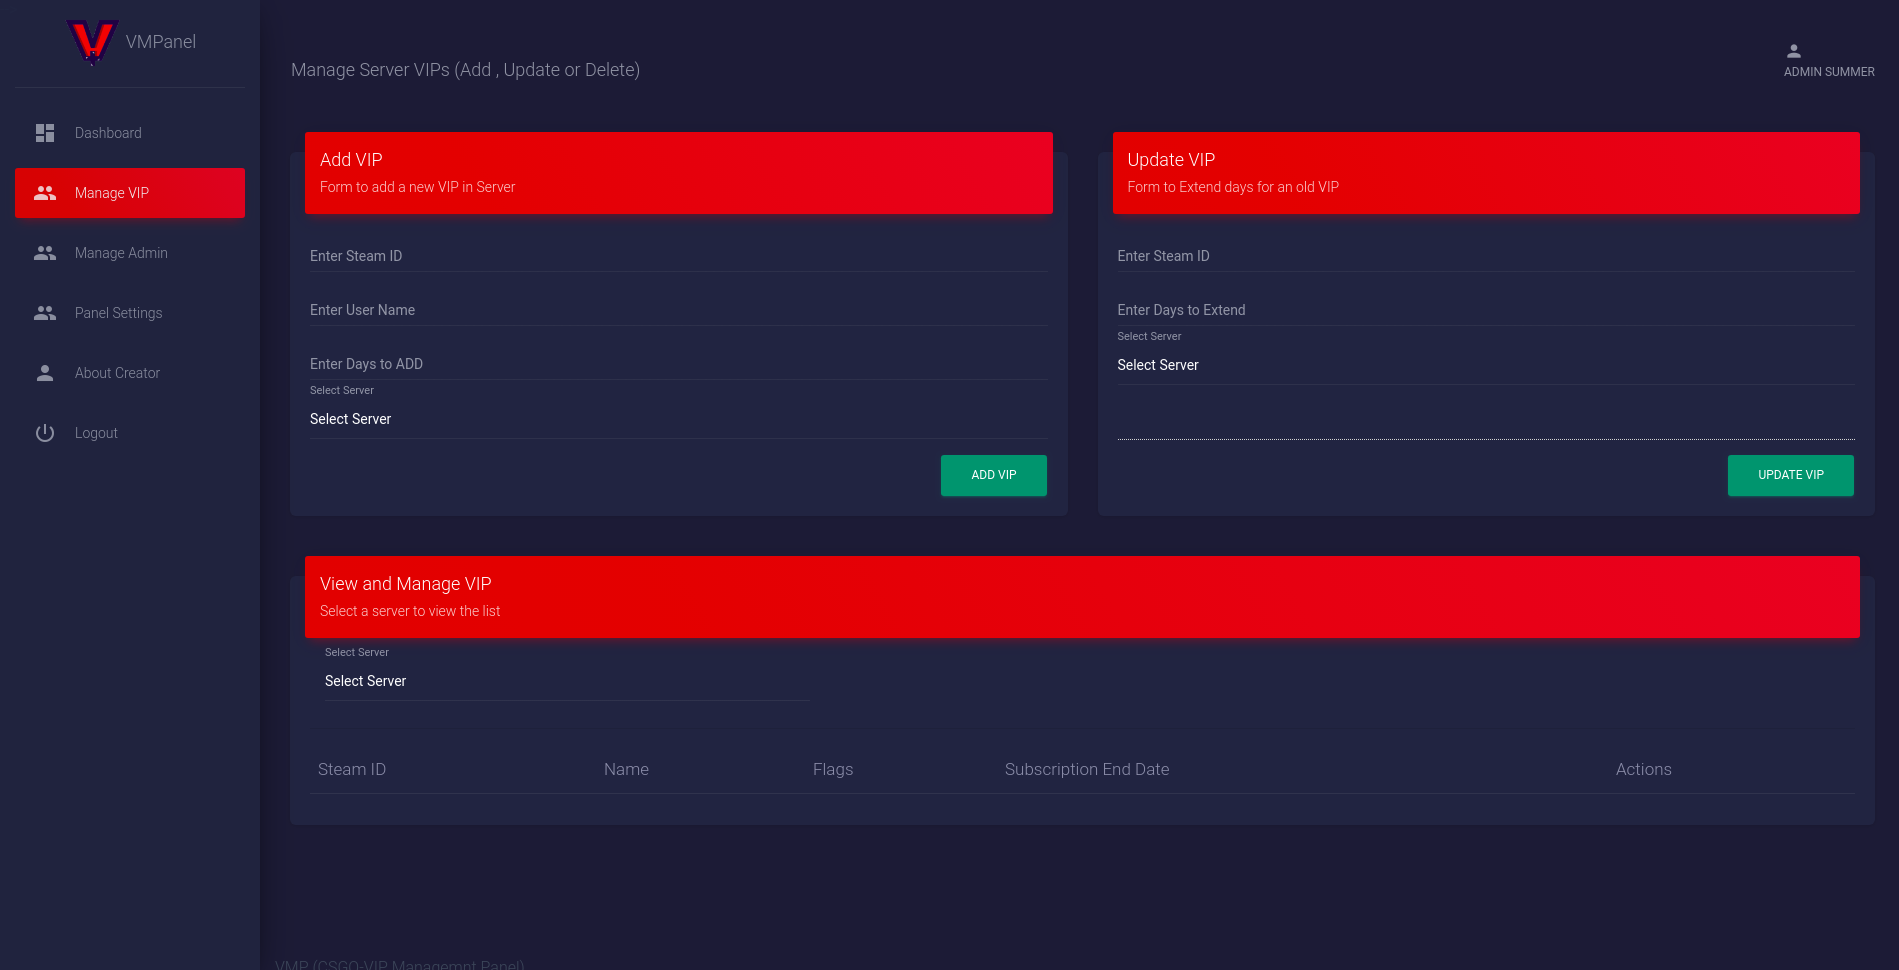
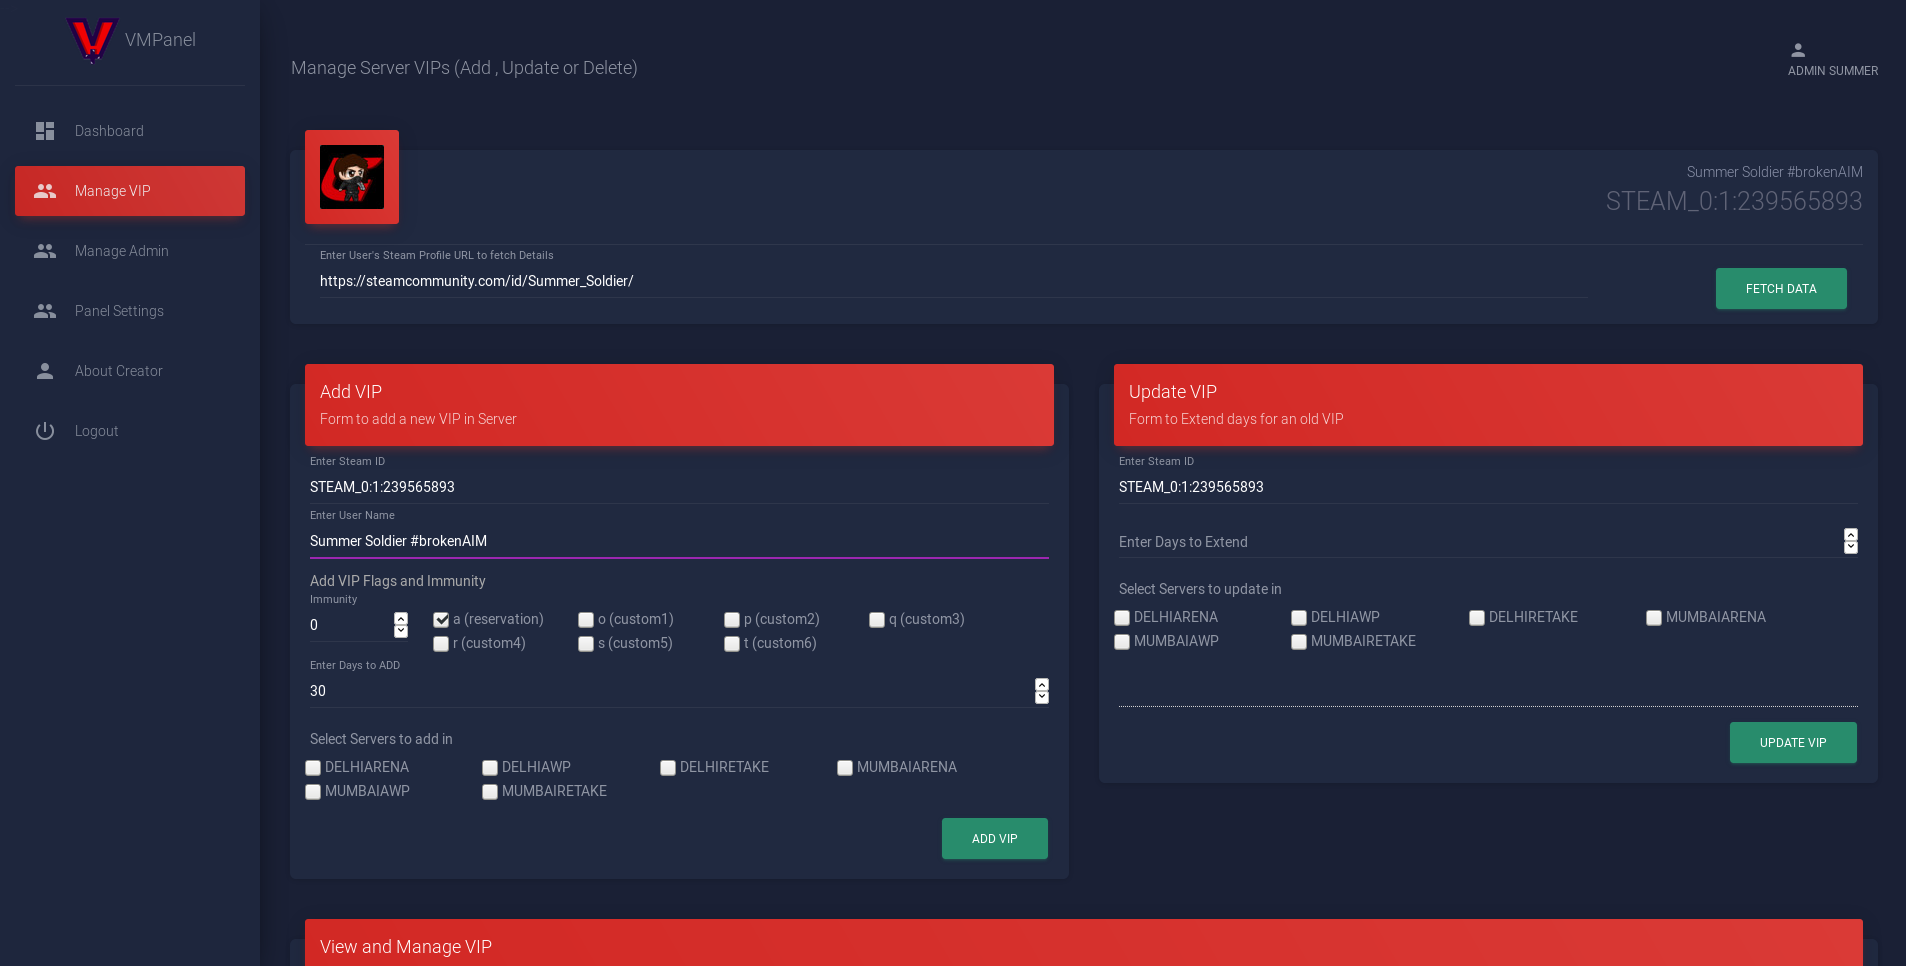
added new field to diff admin from vip, ss update

diff --git a/panelServer/app/models/vipModel.js b/panelServer/app/models/vipModel.js
@@ -37,23 +37,30 @@ var vipDataModel = {
         let finalResult = []
 
         for (let i = 0; i < serverList.length; i++) {
-          let query = db.queryFormat(`SELECT authId,name,expireStamp,created_at FROM ${serverList[i]} WHERE flag = '"0:a"'`);
+          let query = db.queryFormat(`SELECT authId,
+                                             name,
+                                             expireStamp,
+                                             created_at,
+                                             type 
+                                      FROM ${serverList[i]} WHERE type = 0`);
           let queryRes = await db.query(query);
           if (!queryRes) {
             return reject("No Data Found");
           }
           finalResult.push({ "servername": serverList[i], "type": "VIPs", "data": queryRes })
 
-          query = db.queryFormat(`SELECT authId,name,expireStamp FROM ${serverList[i]} WHERE flag <> '"0:a"'`);
+          query = db.queryFormat(`SELECT authId,
+                                         name,
+                                         expireStamp,
+                                         created_at,
+                                         type 
+                                  FROM ${serverList[i]} WHERE type = 1`);
           queryRes = await db.query(query);
           if (!queryRes) {
             return reject("No Data Found");
           }
           finalResult.push({ "servername": serverList[i], "type": "ADMINs", "data": queryRes })
         }
-
-        // console.log("finalResult in getallTableData->", finalResult)
-
         return resolve(finalResult);
       } catch (error) {
         console.log("error in getallTableData->", error)
@@ -73,11 +80,10 @@ var vipDataModel = {
 
         let query
         if (type === "vip") {
-          query = db.queryFormat(`SELECT * FROM ${server} WHERE flag = '"0:a"'`);
+          query = db.queryFormat(`SELECT * FROM ${server} WHERE type = 0`);
         } else if (type === "admin") {
-          query = db.queryFormat(`SELECT * FROM ${server} WHERE flag <> '"0:a"'`);
+          query = db.queryFormat(`SELECT * FROM ${server} WHERE type = 1`);
         }
-
         let queryRes = await db.query(query);
         if (!queryRes) {
           return reject("No Data Found");
@@ -102,7 +108,13 @@ var vipDataModel = {
 
         let currentDateTime = new Date()
         for (let i = 0; i < dataObj.server.length; i++) {
-          const query = db.queryFormat(`INSERT INTO ${dataObj.server[i]} (authId, flag, name, created_at, expireStamp) VALUES (?, ?, ?, ?, ?)`, [dataObj.steamId, dataObj.flag, dataObj.name, currentDateTime, dataObj.day]);
+          const query = db.queryFormat(`INSERT INTO ${dataObj.server[i]} 
+                                        (authId,
+                                        flag,
+                                        name,
+                                        created_at,
+                                        expireStamp,
+                                        type) VALUES (?, ?, ?, ?, ?, ?)`, [dataObj.steamId, dataObj.flag, dataObj.name, currentDateTime, dataObj.day, dataObj.userType]);
           const queryRes = await db.query(query);
           if (!queryRes) {
             return reject("error in insertion");
@@ -151,14 +163,13 @@ var vipDataModel = {
         let currentEpoc = Math.floor(Date.now() / 1000)
 
         for (let i = 0; i < serverList.length; i++) {
-          let query = db.queryFormat(`DELETE FROM ${serverList[i]} where expireStamp < ${currentEpoc} AND flag = '"0:a"' `);
+          let query = db.queryFormat(`DELETE FROM ${serverList[i]} where expireStamp < ${currentEpoc} AND type = 0 `);
           let queryRes = await db.query(query);
           if (!queryRes) {
             return reject("Error in delete");
           }
         }
         return resolve(true);
-
       } catch (error) {
         console.log("error in updateVIPData->", error)
         reject(error)

diff --git a/panelServer/app/controllers/insertVip.js b/panelServer/app/controllers/insertVip.js
@@ -72,6 +72,7 @@ const insertVipDataFunc = (reqBody, username) => {
           reqBody.day = epoctillExpirey(reqBody.day);
           reqBody.name = "//" + reqBody.name;
           reqBody.steamId = '"' + reqBody.steamId + '"';
+          reqBody.userType = 0;
 
           let insertRes = await vipModel.insertVIPData(reqBody)
           if (insertRes) {

diff --git a/panelServer/app/controllers/insertAdmin.js b/panelServer/app/controllers/insertAdmin.js
@@ -70,6 +70,7 @@ const insertAdminDataFunc = (reqBody, username) => {
           reqBody.name = "//" + reqBody.name;
           reqBody.steamId = '"' + reqBody.steamId + '"';
           reqBody.day = 0;
+          reqBody.userType = 1;
 
           let insertRes = await vipModel.insertVIPData(reqBody)
           if (insertRes) {

diff --git a/README.md b/README.md
@@ -19,11 +19,7 @@ If you wants to use the panel and have no idea how to install through below Inst
 - this script must be added in cron
 
 ## Webpanel Screenshots
-![ScreenShot](https://github.com/Summer-16/CSGO-VMP/blob/master/screenshots/VMP1_SS.png)
-![ScreenShot](https://github.com/Summer-16/CSGO-VMP/blob/master/screenshots/VMP2_SS.png)
-![ScreenShot](https://github.com/Summer-16/CSGO-VMP/blob/master/screenshots/VMP3_SS.png)
-![ScreenShot](https://github.com/Summer-16/CSGO-VMP/blob/master/screenshots/VMP4_SS.png)
-![ScreenShot](https://github.com/Summer-16/CSGO-VMP/blob/master/screenshots/VMP5_SS.png)
+![ScreenShot](https://github.com/Summer-16/CSGO-VMP/blob/master/screenshots/VMP_SS.jpg)
 
 ## Change in v1.2
 - New UI
@@ -31,6 +27,9 @@ If you wants to use the panel and have no idea how to install through below Inst
 - Panel admins/user management
 
 ## Step-by-Step install Instructions for New Installation (if you are upgrading from old version check upgrade instructions)
+Always install the latest released version and follow the instructions available inside the readme of downloaded release.
+I dont recommend installing under-development builds as they may have errors. 
+
 ### Setting Up the mysql databse first
 - Query to create tables for server
 ```mysql
@@ -40,6 +39,7 @@ CREATE TABLE `table_name_here` (
   `name` varchar(45) COLLATE utf8mb4_unicode_ci NOT NULL,
   `expireStamp` int(20) NOT NULL,
   `created_at` datetime NOT NULL,
+  `type` int(20) NOT NULL,
   PRIMARY KEY (`authId`)
 ) ENGINE=InnoDB DEFAULT CHARSET=utf8mb4 COLLATE=utf8mb4_unicode_ci
 ```

diff --git a/mysqlQuery/readme.md b/mysqlQuery/readme.md
@@ -7,6 +7,7 @@ CREATE TABLE `table_name_here` (
   `name` varchar(45) COLLATE utf8mb4_unicode_ci NOT NULL,
   `expireStamp` int(20) NOT NULL,
   `created_at` datetime NOT NULL,
+  `type` int(20) NOT NULL,
   PRIMARY KEY (`authId`)
 ) ENGINE=InnoDB DEFAULT CHARSET=utf8mb4 COLLATE=utf8mb4_unicode_ci
 ```
